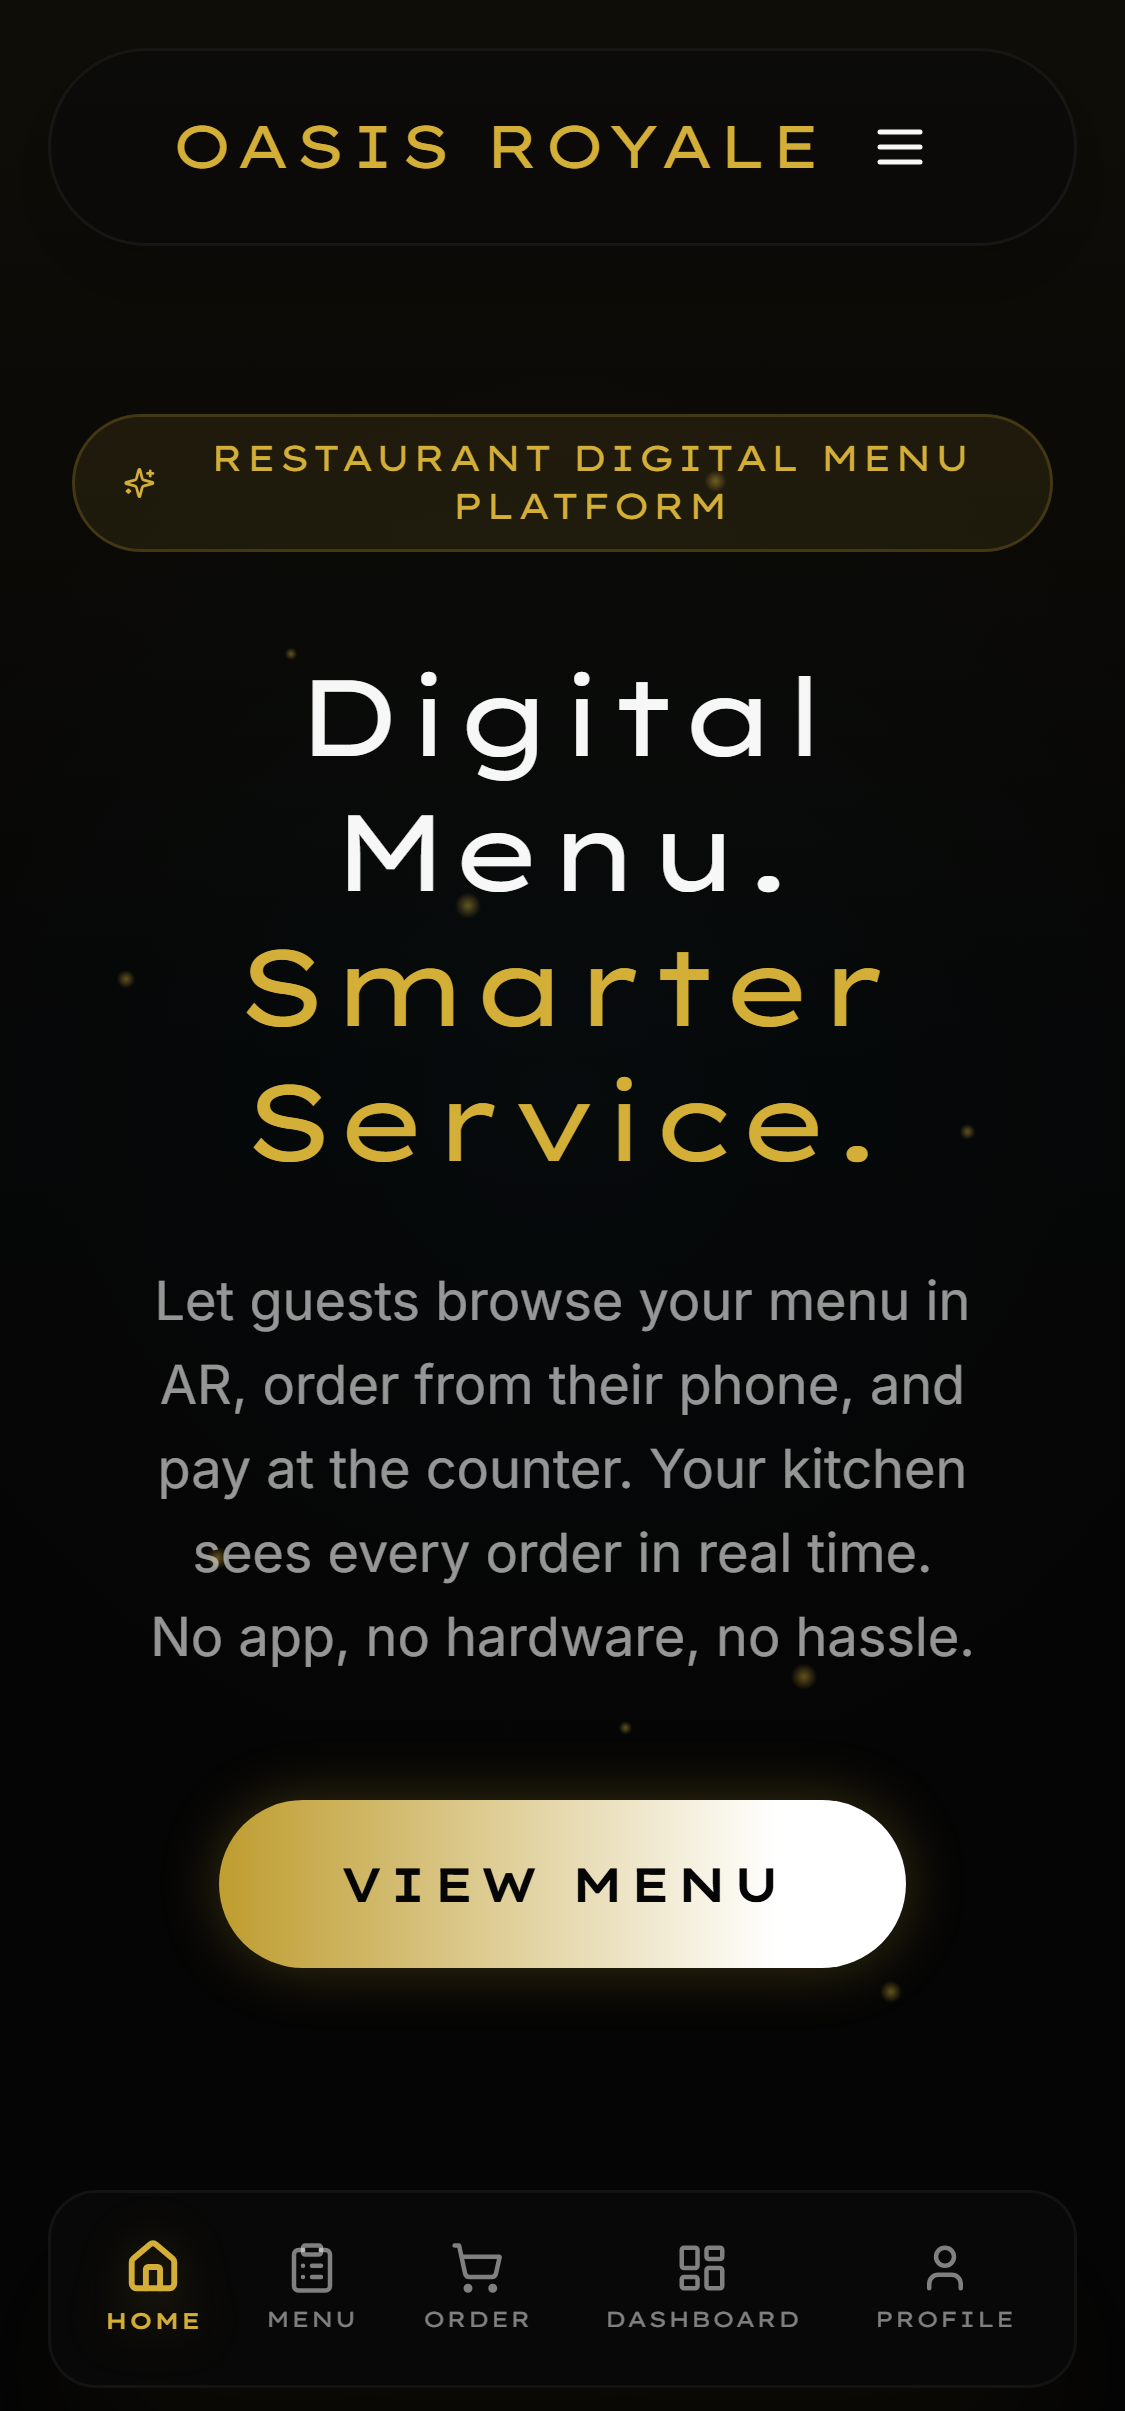
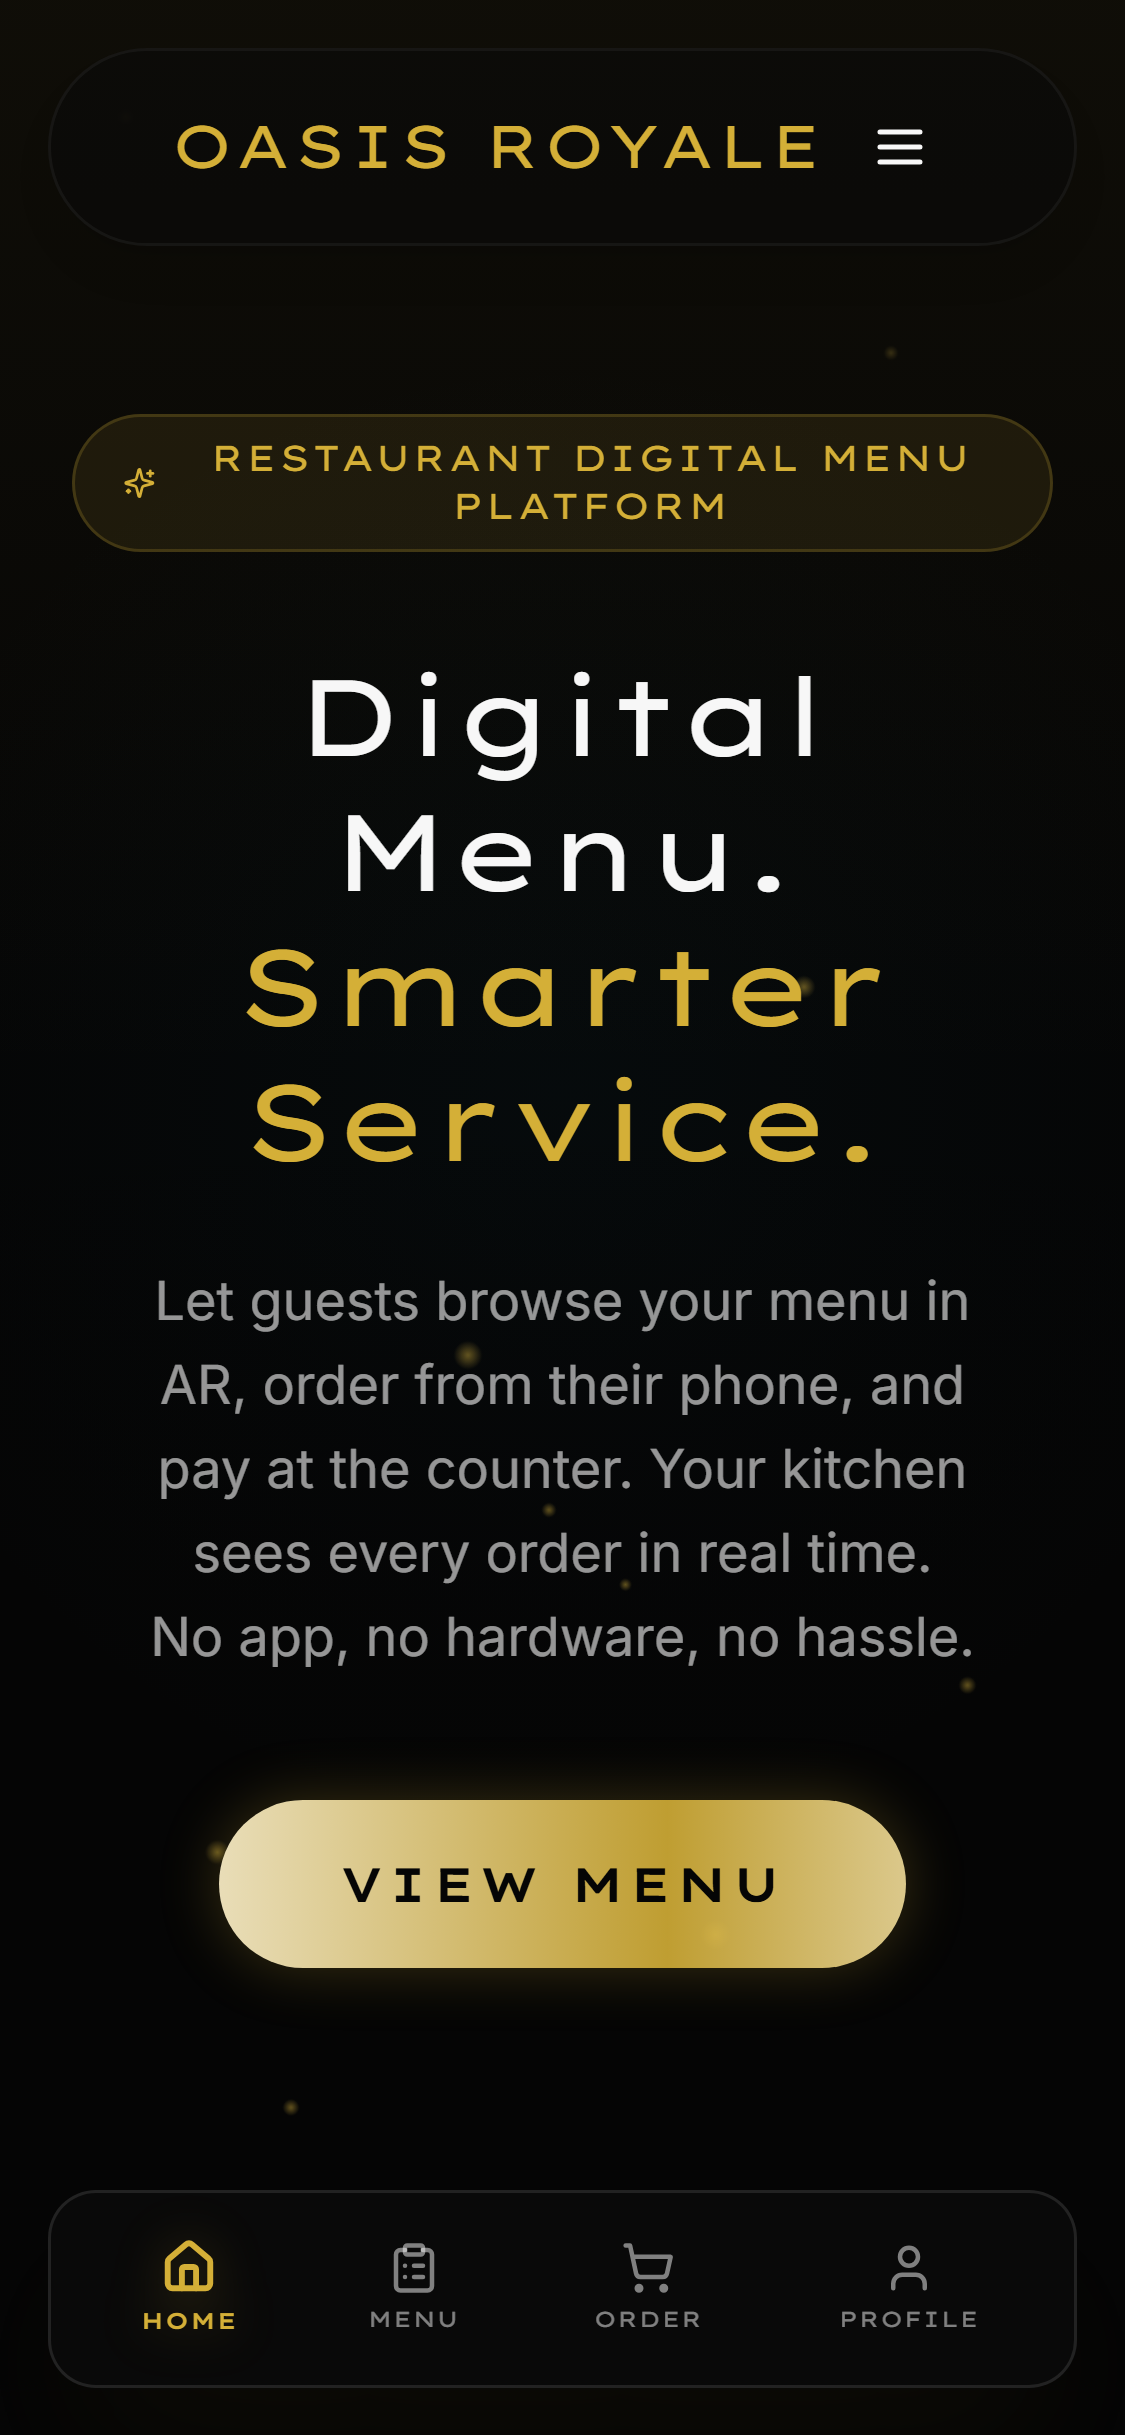
docs: add high-quality project screenshots to public folder

diff --git a/src/app/admin/dashboard/page.tsx b/src/app/admin/dashboard/page.tsx
@@ -857,3 +857,7 @@ export default function AdminDashboard() {
 }
 
 
+
+
+
+

diff --git a/src/components/sections/Hero.tsx b/src/components/sections/Hero.tsx
@@ -52,3 +52,7 @@ export function Hero() {
     </section>
   );
 }
+
+
+
+

diff --git a/src/components/ui/GlassCard.tsx b/src/components/ui/GlassCard.tsx
@@ -24,3 +24,5 @@ export default function GlassCard({
     </Tag>
   );
 }
+
+